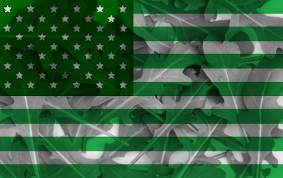
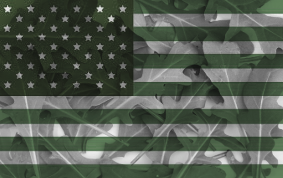
aruguchange

diff --git a/arugula.html b/arugula.html
@@ -3,7 +3,7 @@
 <head>
 <style>
 body {
-	background-image: url("bg.gif");
+	background-image: url("flag.png");
 	opacity: 1;
 }
 h1	{
@@ -41,10 +41,13 @@ text-align: center;
   color: white;
   margin-top: 0px;
   margin-bottom: 0px;
-  margin-right: 750px;
-  margin-left: 750px;
+  margin-right: 600px;
+  margin-left: 600px;
   background-color: green;
   opacity: 1;
+}		
+p	{
+text-align: center;
 }		
 </style>
 <script>
@@ -54,8 +57,8 @@ text-align: center;
 <body>
 <h1>VOTE AROOGLE PARTY</h1>
 <div>arugula (American English) (Eruca vesicaria; syns. Eruca sativa Mill., E. vesicaria subsp. sativa (Miller) Thell., Brassica eruca L.) is an edible annual plant in the family Brassicaceae used as a leaf vegetable for its fresh, tart, bitter, and peppery flavor. Other common names include garden rocket[1] (in Britain, Australia, South Africa, Ireland and New Zealand),[2] and eruca.[2] It is also called "ruchetta", "rucola", "rucoli", "rugula", "colewort", and "roquette". Eruca sativa, which is widely popular as a salad vegetable, is a species of Eruca native to the Mediterranean region, from Morocco and Portugal in the west to Syria, Lebanon, and Turkey in the east.[3][2]</div>
-<img id="a" src="Flag.png">
+<img id="a" src="bg.jpg">
 <h2>IT IS FOR THESE REASONS THAT ARUGULA IS A SUITABLE LEADER FOR THE UNITED STATES</h2>
-<div>copyright arugula, watch out for astraea.alice</div>
+<p>copyright arugula, watch out for astraea.alice</p>
 </body>
 </html>
